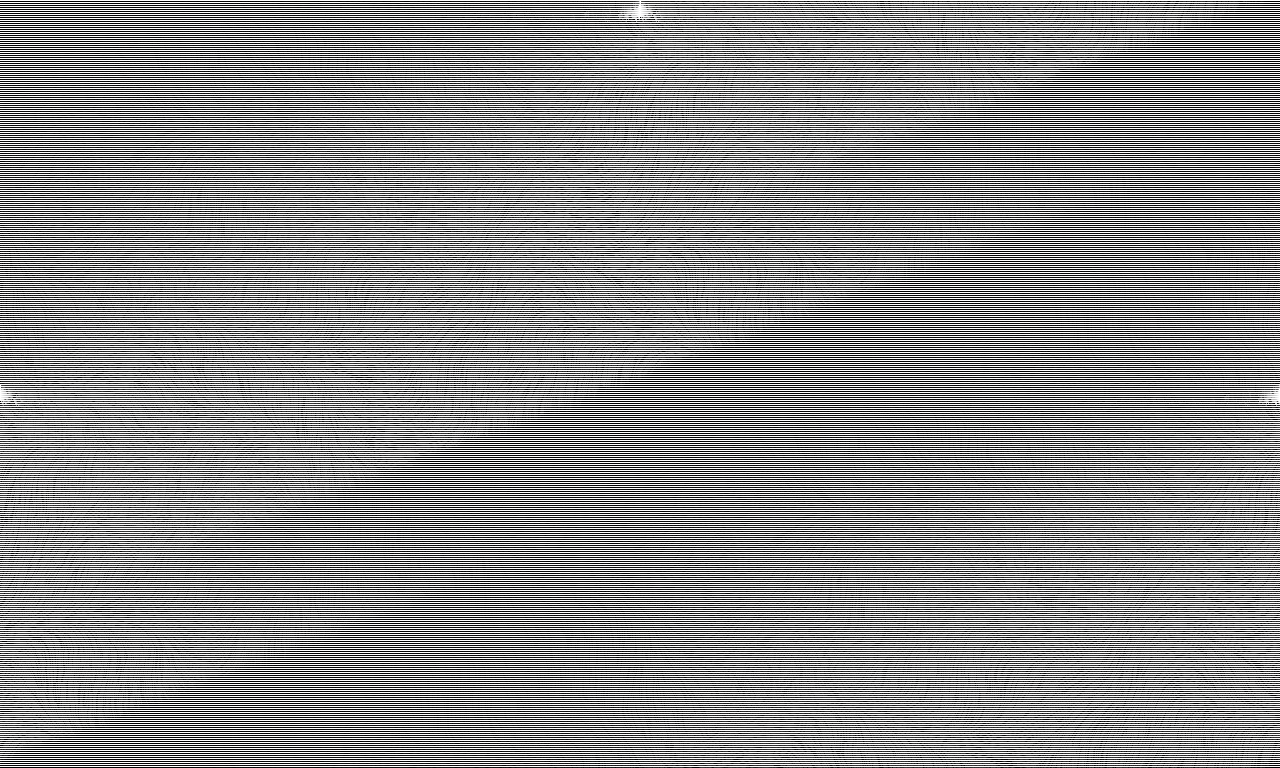
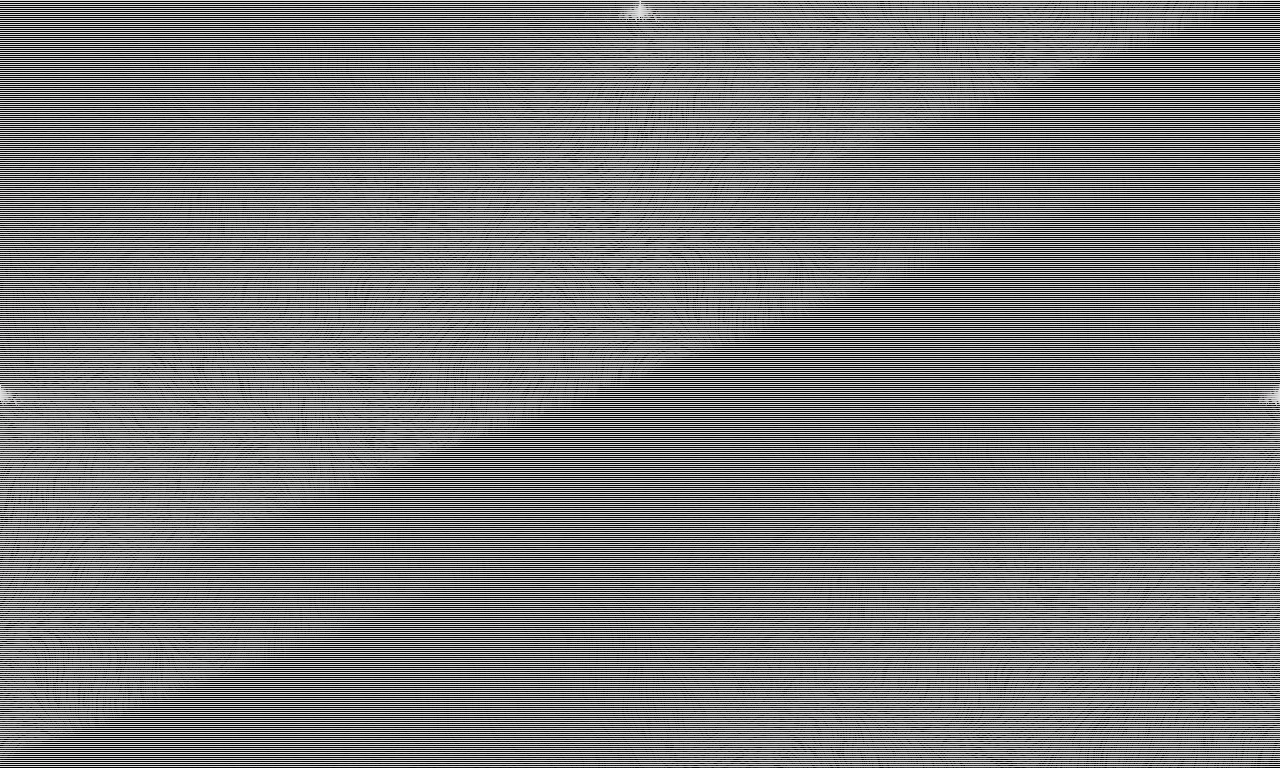
merg with laptop

diff --git a/Duologue/Screens/BuyScreen.cs b/Duologue/Screens/BuyScreen.cs
@@ -47,6 +47,8 @@ namespace Duologue.Screens
         private const int numberOfScreens = 14;
 
         private const float delta_LayerOffset = 0.32416f;
+
+        private const float alpha_Layer = 0.65f;
         #endregion
 
         #region Fields
@@ -62,6 +64,7 @@ namespace Duologue.Screens
         private Screenshots[] screenshots;
         private Vector2[] possibleSpeeds;
         private int currentSpeed;
+        private Color color_Layer;
         #endregion
 
         #region Constructor / Init
@@ -83,6 +86,9 @@ namespace Duologue.Screens
                 -3.05f * Vector2.UnitX,
             };
             currentSpeed = 0;
+
+            color_Layer = new Color(
+                Color.White, alpha_Layer);
         }
 
         protected override void LoadContent()
@@ -228,7 +234,7 @@ namespace Duologue.Screens
                 Vector2.Zero,
                 position_Layer,
                 null,
-                Color.White,
+                color_Layer,
                 0f,
                 1f,
                 0f);
@@ -237,7 +243,7 @@ namespace Duologue.Screens
                 Vector2.UnitX * ((float)texture_Layer.Width - position_Layer.X),
                 Vector2.Zero,
                 null,
-                Color.White,
+                color_Layer,
                 0f,
                 1f,
                 0f);
